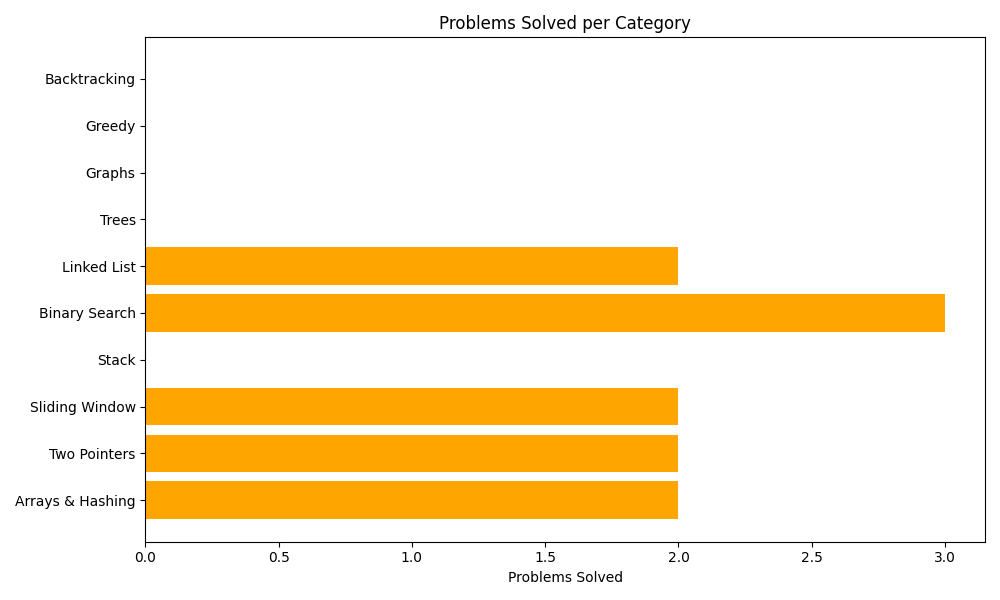
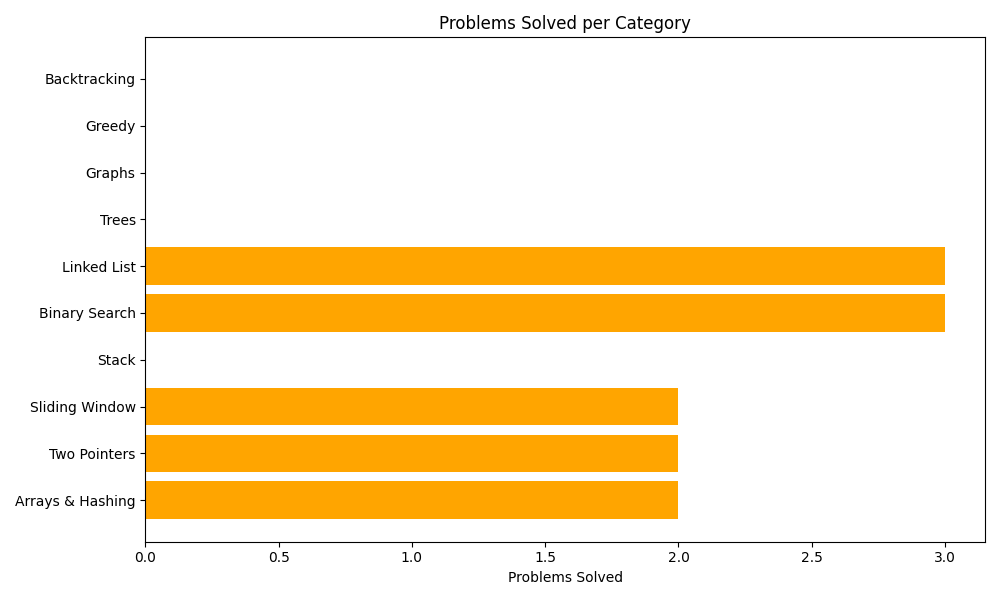
Auto-update README with latest problem progress

Changed region(s): [[0.651, 0.39, 0.961, 0.48]]

diff --git a/README.md b/README.md
@@ -13,8 +13,8 @@ This repository tracks my daily progress solving LeetCode problems. I aim to sol
 | Day 2 | [Container With Most Water](two_pointers/container_with_most_water.py), [Valid Palindrome](two_pointers/valid_palindrome.py) | Two Pointers |
 | Day 3 | [Best Time Stock](sliding_window/best_time_stock.py), [Longest Unique Substring](sliding_window/longest_unique_substring.py) | Sliding Window |
 | Day 4 | [Binary Search](binary_search/binary_search.py), [Search 2D Matrix](binary_search/search_2d_matrix.py) | Binary Search |
-| Day 5 | [Search 2D Matrix Ii](binary_search/search_2d_matrix_ii.py), [Merge Two Sorted Lists](linked_list/merge_two_sorted_lists.py) | Binary Search / Linked List |
-| Day 6 | [Reverse Linked List](linked_list/reverse_linked_list.py) | Linked List |
+| Day 5 | [Search 2D Matrix Ii](binary_search/search_2d_matrix_ii.py), [Linked List Cycle](linked_list/linked_list_cycle.py) | Binary Search / Linked List |
+| Day 6 | [Merge Two Sorted Lists](linked_list/merge_two_sorted_lists.py), [Reverse Linked List](linked_list/reverse_linked_list.py) | Linked List |
 <!-- AUTO-GENERATED-TABLE-END -->
 
 ---
